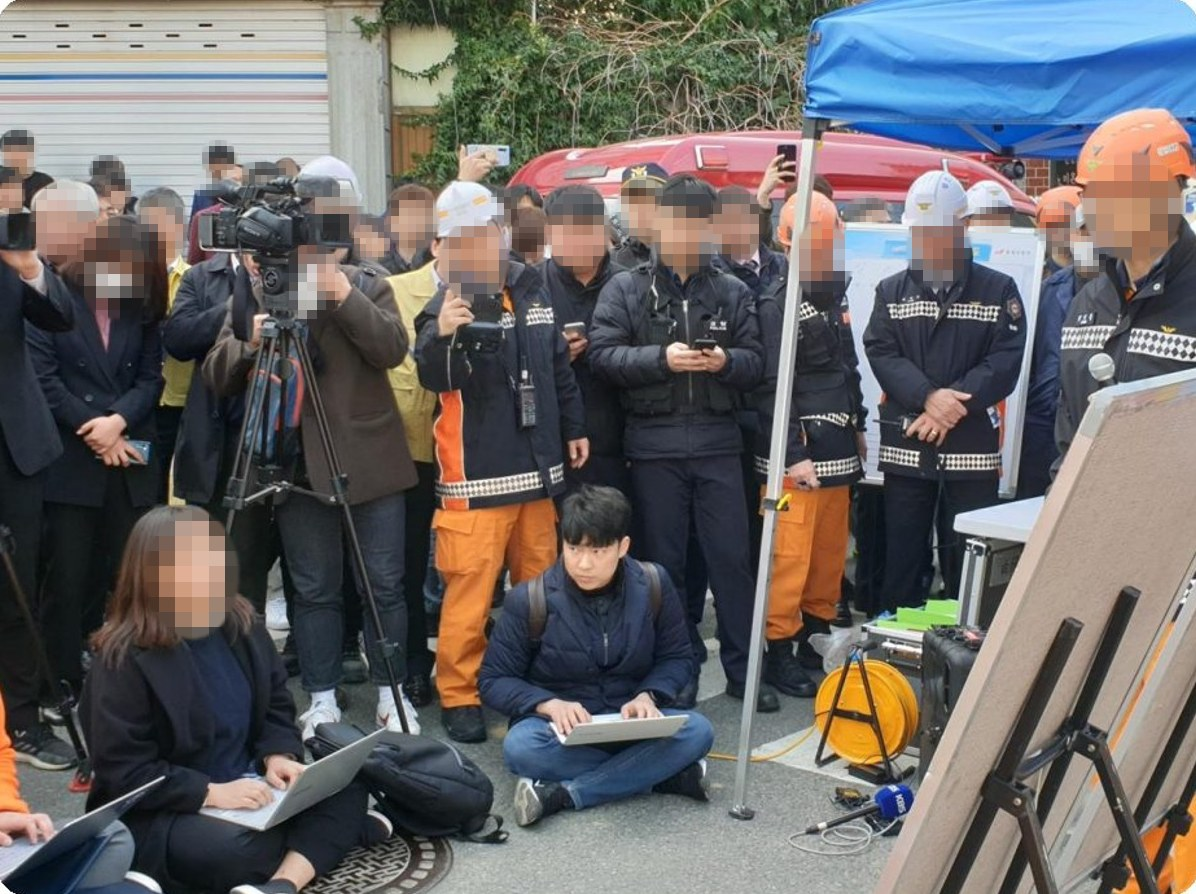
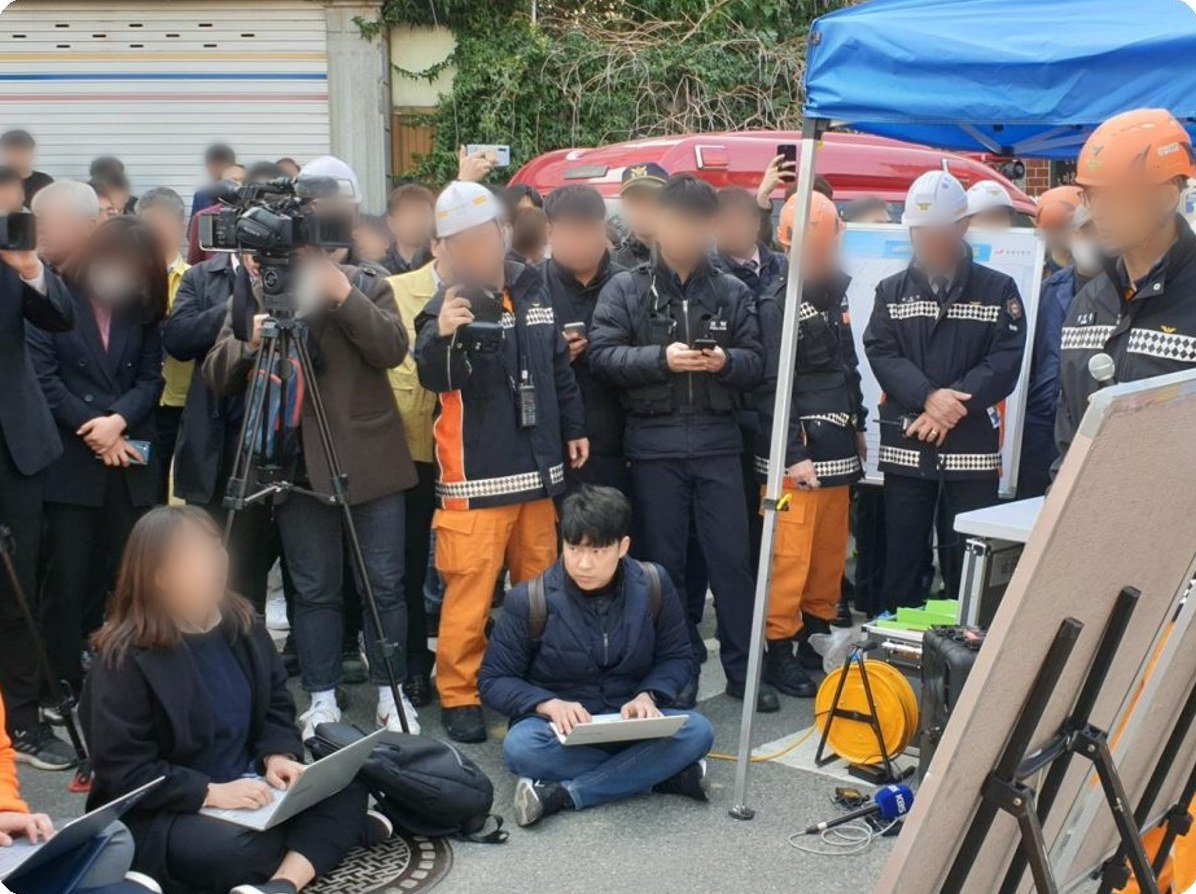
부산피디아 기획 페이지 추가, 보도 탭 사진 얼굴만 약한 블러

diff --git a/reports/busanpedia/index.html b/reports/busanpedia/index.html
@@ -1,0 +1,347 @@
+<!doctype html>
+<html lang="ko">
+<head>
+<meta charset="utf-8">
+<meta name="viewport" content="width=device-width, initial-scale=1, viewport-fit=cover">
+<title>부산피디아 | 이상배 부산일보 기자</title>
+<meta name="description" content="최동원, 부산어묵, BIFF처럼 부산의 인물과 음식, 역사를 회차별로 풀어내고 관련 인물을 인터뷰한 기획입니다. 부산일보 이상배 기자의 기획 보도 26건.">
+<link rel="canonical" href="https://baesang2.github.io/reports/busanpedia/">
+<link rel="icon" type="image/png" sizes="32x32" href="/favicon-32.png">
+<link rel="apple-touch-icon" href="/apple-touch-icon.png">
+<meta name="author" content="이상배">
+<meta name="color-scheme" content="light only">
+<meta name="theme-color" content="#ffffff">
+<meta property="og:type" content="website">
+<meta property="og:locale" content="ko_KR">
+<meta property="og:site_name" content="이상배">
+<meta property="og:title" content="부산피디아 | 이상배 부산일보 기자">
+<meta property="og:description" content="최동원, 부산어묵, BIFF처럼 부산의 인물과 음식, 역사를 회차별로 풀어내고 관련 인물을 인터뷰한 기획입니다.">
+<meta property="og:url" content="https://baesang2.github.io/reports/busanpedia/">
+<meta property="og:image" content="https://baesang2.github.io/images/og-reports.jpg">
+<meta name="twitter:card" content="summary_large_image">
+<script type="application/ld+json">
+{
+  "@context": "https://schema.org",
+  "@type": "CreativeWorkSeries",
+  "@id": "https://baesang2.github.io/reports/busanpedia/",
+  "url": "https://baesang2.github.io/reports/busanpedia/",
+  "name": "부산피디아",
+  "description": "최동원, 부산어묵, BIFF처럼 부산의 인물과 음식, 역사를 회차별로 풀어내고 관련 인물을 인터뷰한 기획입니다.",
+  "inLanguage": "ko",
+  "author": {
+    "@id": "https://baesang2.github.io/#person"
+  },
+  "publisher": {
+    "@type": "NewsMediaOrganization",
+    "name": "부산일보"
+  },
+  "startDate": "2023-04-05",
+  "endDate": "2023-11-17",
+  "hasPart": [
+    {
+      "@type": "NewsArticle",
+      "headline": "무쇠팔 최동원이 던진 건 공이 아니라 진심이었다",
+      "datePublished": "2023-04-05",
+      "url": "https://n.news.naver.com/article/082/0001206062",
+      "author": {
+        "@id": "https://baesang2.github.io/#person"
+      }
+    },
+    {
+      "@type": "NewsArticle",
+      "headline": "\"부산엑스포, 함 해 보입시더\" 최동원이 여는 '부산피디아'",
+      "datePublished": "2023-04-05",
+      "url": "https://n.news.naver.com/article/082/0001206061",
+      "author": {
+        "@id": "https://baesang2.github.io/#person"
+      }
+    },
+    {
+      "@type": "NewsArticle",
+      "headline": "부산어묵, 피란민 허기 달래며 변신… 부산과 함께한 국민 먹거리",
+      "datePublished": "2023-04-19",
+      "url": "https://n.news.naver.com/article/082/0001208312",
+      "author": {
+        "@id": "https://baesang2.github.io/#person"
+      }
+    },
+    {
+      "@type": "NewsArticle",
+      "headline": "\"어묵의 가능성은 무궁무진\" 삼진어묵 박용준 대표",
+      "datePublished": "2023-04-28",
+      "url": "https://n.news.naver.com/article/082/0001209834",
+      "author": {
+        "@id": "https://baesang2.github.io/#person"
+      }
+    },
+    {
+      "@type": "NewsArticle",
+      "headline": "[영상] 젊은 영화인 열정·김동호의 뚝심…아시아 최고 영화제 꽃피우다",
+      "datePublished": "2023-05-08",
+      "url": "https://n.news.naver.com/article/082/0001211262",
+      "author": {
+        "@id": "https://baesang2.github.io/#person"
+      }
+    },
+    {
+      "@type": "NewsArticle",
+      "headline": "부산에 영화제? 미쳤다고 했죠 BIFF 전 이사장 김동호",
+      "datePublished": "2023-05-12",
+      "url": "https://n.news.naver.com/article/082/0001211992",
+      "author": {
+        "@id": "https://baesang2.github.io/#person"
+      }
+    },
+    {
+      "@type": "NewsArticle",
+      "headline": "[영상] 수단의 슈바이처, 이태석 신부가 톤즈로 간 이유",
+      "datePublished": "2023-05-17",
+      "url": "https://n.news.naver.com/article/082/0001212832",
+      "author": {
+        "@id": "https://baesang2.github.io/#person"
+      }
+    },
+    {
+      "@type": "NewsArticle",
+      "headline": "'추적 60분' PD가 '울지마 톤즈'를 찍은 이유… 이태석재단 구수환 이사장",
+      "datePublished": "2023-05-26",
+      "url": "https://n.news.naver.com/article/082/0001214314",
+      "author": {
+        "@id": "https://baesang2.github.io/#person"
+      }
+    },
+    {
+      "@type": "NewsArticle",
+      "headline": "바다 위 흉물에서 랜드마크로, 부산 부의 지도 바꾼 '뷰'",
+      "datePublished": "2023-05-31",
+      "url": "https://n.news.naver.com/article/082/0001214950",
+      "author": {
+        "@id": "https://baesang2.github.io/#person"
+      }
+    },
+    {
+      "@type": "NewsArticle",
+      "headline": "Q. 광안대교는 언제 무너져요?… 조창국 전 광안대로 건설사업소장",
+      "datePublished": "2023-06-07",
+      "url": "https://n.news.naver.com/article/082/0001216042",
+      "author": {
+        "@id": "https://baesang2.github.io/#person"
+      }
+    },
+    {
+      "@type": "NewsArticle",
+      "headline": "[영상] 부산 밀면 감칠맛 비법은 피란민의 억척스러운 삶",
+      "datePublished": "2023-06-14",
+      "url": "https://n.news.naver.com/article/082/0001217222",
+      "author": {
+        "@id": "https://baesang2.github.io/#person"
+      }
+    },
+    {
+      "@type": "NewsArticle",
+      "headline": "100년 전통 밀면집은 식초를 넣을까? 내호냉면 4대 사장 유재우",
+      "datePublished": "2023-06-23",
+      "url": "https://n.news.naver.com/article/082/0001218693",
+      "author": {
+        "@id": "https://baesang2.github.io/#person"
+      }
+    },
+    {
+      "@type": "NewsArticle",
+      "headline": "임진년 시월 이순신이 부산을 공격했다, 역사가 바뀌었다",
+      "datePublished": "2023-06-28",
+      "url": "https://n.news.naver.com/article/082/0001219527",
+      "author": {
+        "@id": "https://baesang2.github.io/#person"
+      }
+    },
+    {
+      "@type": "NewsArticle",
+      "headline": "가난한 환자가 도망가도록 병원 뒷문 열어준 '바보 의사' 장기려",
+      "datePublished": "2023-07-13",
+      "url": "https://n.news.naver.com/article/082/0001222005",
+      "author": {
+        "@id": "https://baesang2.github.io/#person"
+      }
+    },
+    {
+      "@type": "NewsArticle",
+      "headline": "\"남 먼저 생각하는 '장기려 정신' 퍼지길\" 장기려 손자 장여구 교수",
+      "datePublished": "2023-07-21",
+      "url": "https://n.news.naver.com/article/082/0001223317",
+      "author": {
+        "@id": "https://baesang2.github.io/#person"
+      }
+    },
+    {
+      "@type": "NewsArticle",
+      "headline": "문학소녀가 독립 운동을 하게 된 이유는?",
+      "datePublished": "2023-07-31",
+      "url": "https://n.news.naver.com/article/082/0001224847",
+      "author": {
+        "@id": "https://baesang2.github.io/#person"
+      }
+    },
+    {
+      "@type": "NewsArticle",
+      "headline": "박차정 의사는 절대 사회주의가 아닙니다 강대민 교수",
+      "datePublished": "2023-08-05",
+      "url": "https://n.news.naver.com/article/082/0001225647",
+      "author": {
+        "@id": "https://baesang2.github.io/#person"
+      }
+    },
+    {
+      "@type": "NewsArticle",
+      "headline": "[영상] 일제 군수공장 방화하려다 착혈 고문 시달린 애국지사 이광우",
+      "datePublished": "2023-08-10",
+      "url": "https://n.news.naver.com/article/082/0001226550",
+      "author": {
+        "@id": "https://baesang2.github.io/#person"
+      }
+    },
+    {
+      "@type": "NewsArticle",
+      "headline": "독립운동가 아버지를 고문한 친일 경찰을 쫓다… 동구문화원 이상국 위원",
+      "datePublished": "2023-08-16",
+      "url": "https://n.news.naver.com/article/082/0001227419",
+      "author": {
+        "@id": "https://baesang2.github.io/#person"
+      }
+    },
+    {
+      "@type": "NewsArticle",
+      "headline": "2030부산엑스포 무대가 될 부산항 북항의 모든 것",
+      "datePublished": "2023-09-07",
+      "url": "https://n.news.naver.com/article/082/0001231213",
+      "author": {
+        "@id": "https://baesang2.github.io/#person"
+      }
+    },
+    {
+      "@type": "NewsArticle",
+      "headline": "'부산항 전도사' 이용득 부산세관박물관장",
+      "datePublished": "2023-09-15",
+      "url": "https://n.news.naver.com/article/082/0001232514",
+      "author": {
+        "@id": "https://baesang2.github.io/#person"
+      }
+    },
+    {
+      "@type": "NewsArticle",
+      "headline": "\"쾅하는 소리와 함께 사람들이 쓸려 나갔죠\"",
+      "datePublished": "2023-09-20",
+      "url": "https://n.news.naver.com/article/082/0001233400",
+      "author": {
+        "@id": "https://baesang2.github.io/#person"
+      }
+    },
+    {
+      "@type": "NewsArticle",
+      "headline": "경마장·미군기지… 질곡의 100년 넘은 부산시민공원의 모든 것",
+      "datePublished": "2023-10-18",
+      "url": "https://n.news.naver.com/article/082/0001237404",
+      "author": {
+        "@id": "https://baesang2.github.io/#person"
+      }
+    },
+    {
+      "@type": "NewsArticle",
+      "headline": "허운영 전 하야리아 시민공원 범시민운동본부 운영위원장",
+      "datePublished": "2023-10-27",
+      "url": "https://n.news.naver.com/article/082/0001238885",
+      "author": {
+        "@id": "https://baesang2.github.io/#person"
+      }
+    },
+    {
+      "@type": "NewsArticle",
+      "headline": "'스포츠 변방국' 편견을 메치다…대한민국 최초 올림픽 금 양정모",
+      "datePublished": "2023-11-14",
+      "url": "https://n.news.naver.com/article/082/0001241648",
+      "author": {
+        "@id": "https://baesang2.github.io/#person"
+      }
+    },
+    {
+      "@type": "NewsArticle",
+      "headline": "애국가 들리던 순간 울컥했죠 대한민국 최초의 올림픽 금메달 양정모",
+      "datePublished": "2023-11-17",
+      "url": "https://n.news.naver.com/article/082/0001242254",
+      "author": {
+        "@id": "https://baesang2.github.io/#person"
+      }
+    }
+  ]
+}
+</script>
+<link rel="preconnect" href="https://cdn.jsdelivr.net">
+<link rel="stylesheet" href="https://cdn.jsdelivr.net/gh/orioncactus/pretendard@v1.3.9/dist/web/variable/pretendardvariable-dynamic-subset.min.css">
+<link rel="stylesheet" href="/assets/site.css">
+</head>
+<body>
+
+<header class="topbar">
+  <div class="container">
+    <a class="brand" href="/">이상배</a>
+    <nav aria-label="주요 메뉴">
+      <ul class="tabs">
+        <li><a href="/">홈</a></li>
+        <li><a href="/reports/" aria-current="page">보도</a></li>
+        <li><a href="/lectures/">강연</a></li>
+      </ul>
+    </nav>
+  </div>
+</header>
+
+<div class="page-head container">
+  <a class="back" href="/reports/">보도 목록</a>
+  <h1>부산피디아</h1>
+  <p class="plan-meta">2023.04 – 2023.11 · 기사 26건</p>
+  <p>최동원, 부산어묵, BIFF처럼 부산의 인물과 음식, 역사를 회차별로 풀어내고 관련 인물을 인터뷰한 기획입니다.</p>
+  <img class="plan-photo" src="/images/reports/busanpedia-2023.jpg" alt="부산피디아" width="600" height="400">
+</div>
+
+<main class="container">
+
+  <section class="sec" id="articles">
+    <h2>기사</h2>
+    <div class="sec-body">
+      <ul class="rows wide">
+          <li><span class="y">2023.04.05</span><span class="t"><a href="https://n.news.naver.com/article/082/0001206062">무쇠팔 최동원이 던진 건 공이 아니라 진심이었다</a><span class="m">EP.1 최동원</span></span></li>
+          <li><span class="y">2023.04.05</span><span class="t"><a href="https://n.news.naver.com/article/082/0001206061">"부산엑스포, 함 해 보입시더" 최동원이 여는 '부산피디아'</a><span class="m">연재 시작 기사</span></span></li>
+          <li><span class="y">2023.04.19</span><span class="t"><a href="https://n.news.naver.com/article/082/0001208312">부산어묵, 피란민 허기 달래며 변신… 부산과 함께한 국민 먹거리</a><span class="m">EP.2 부산어묵</span></span></li>
+          <li><span class="y">2023.04.28</span><span class="t"><a href="https://n.news.naver.com/article/082/0001209834">"어묵의 가능성은 무궁무진" 삼진어묵 박용준 대표</a><span class="m">WHO(後)</span></span></li>
+          <li><span class="y">2023.05.08</span><span class="t"><a href="https://n.news.naver.com/article/082/0001211262">[영상] 젊은 영화인 열정·김동호의 뚝심…아시아 최고 영화제 꽃피우다</a><span class="m">EP.3 BIFF</span></span></li>
+          <li><span class="y">2023.05.12</span><span class="t"><a href="https://n.news.naver.com/article/082/0001211992">부산에 영화제? 미쳤다고 했죠 BIFF 전 이사장 김동호</a><span class="m">WHO(後)</span></span></li>
+          <li><span class="y">2023.05.17</span><span class="t"><a href="https://n.news.naver.com/article/082/0001212832">[영상] 수단의 슈바이처, 이태석 신부가 톤즈로 간 이유</a><span class="m">EP.4 이태석</span></span></li>
+          <li><span class="y">2023.05.26</span><span class="t"><a href="https://n.news.naver.com/article/082/0001214314">'추적 60분' PD가 '울지마 톤즈'를 찍은 이유… 이태석재단 구수환 이사장</a><span class="m">WHO(後)</span></span></li>
+          <li><span class="y">2023.05.31</span><span class="t"><a href="https://n.news.naver.com/article/082/0001214950">바다 위 흉물에서 랜드마크로, 부산 부의 지도 바꾼 '뷰'</a><span class="m">EP.5 광안대교</span></span></li>
+          <li><span class="y">2023.06.07</span><span class="t"><a href="https://n.news.naver.com/article/082/0001216042">Q. 광안대교는 언제 무너져요?… 조창국 전 광안대로 건설사업소장</a><span class="m">WHO(後)</span></span></li>
+          <li><span class="y">2023.06.14</span><span class="t"><a href="https://n.news.naver.com/article/082/0001217222">[영상] 부산 밀면 감칠맛 비법은 피란민의 억척스러운 삶</a><span class="m">EP.6 부산밀면</span></span></li>
+          <li><span class="y">2023.06.23</span><span class="t"><a href="https://n.news.naver.com/article/082/0001218693">100년 전통 밀면집은 식초를 넣을까? 내호냉면 4대 사장 유재우</a><span class="m">WHO(後)</span></span></li>
+          <li><span class="y">2023.06.28</span><span class="t"><a href="https://n.news.naver.com/article/082/0001219527">임진년 시월 이순신이 부산을 공격했다, 역사가 바뀌었다</a><span class="m">EP.7 부산대첩</span></span></li>
+          <li><span class="y">2023.07.13</span><span class="t"><a href="https://n.news.naver.com/article/082/0001222005">가난한 환자가 도망가도록 병원 뒷문 열어준 '바보 의사' 장기려</a><span class="m">EP.8 장기려</span></span></li>
+          <li><span class="y">2023.07.21</span><span class="t"><a href="https://n.news.naver.com/article/082/0001223317">"남 먼저 생각하는 '장기려 정신' 퍼지길" 장기려 손자 장여구 교수</a><span class="m">WHO(後)</span></span></li>
+          <li><span class="y">2023.07.31</span><span class="t"><a href="https://n.news.naver.com/article/082/0001224847">문학소녀가 독립 운동을 하게 된 이유는?</a><span class="m">EP.9 박차정</span></span></li>
+          <li><span class="y">2023.08.05</span><span class="t"><a href="https://n.news.naver.com/article/082/0001225647">박차정 의사는 절대 사회주의가 아닙니다 강대민 교수</a><span class="m">WHO(後)</span></span></li>
+          <li><span class="y">2023.08.10</span><span class="t"><a href="https://n.news.naver.com/article/082/0001226550">[영상] 일제 군수공장 방화하려다 착혈 고문 시달린 애국지사 이광우</a><span class="m">EP.10 이광우</span></span></li>
+          <li><span class="y">2023.08.16</span><span class="t"><a href="https://n.news.naver.com/article/082/0001227419">독립운동가 아버지를 고문한 친일 경찰을 쫓다… 동구문화원 이상국 위원</a><span class="m">WHO(後)</span></span></li>
+          <li><span class="y">2023.09.07</span><span class="t"><a href="https://n.news.naver.com/article/082/0001231213">2030부산엑스포 무대가 될 부산항 북항의 모든 것</a><span class="m">EP.11 북항</span></span></li>
+          <li><span class="y">2023.09.15</span><span class="t"><a href="https://n.news.naver.com/article/082/0001232514">'부산항 전도사' 이용득 부산세관박물관장</a><span class="m">WHO(後)</span></span></li>
+          <li><span class="y">2023.09.20</span><span class="t"><a href="https://n.news.naver.com/article/082/0001233400">"쾅하는 소리와 함께 사람들이 쓸려 나갔죠"</a><span class="m">EP.12 돗대산 추락사고</span></span></li>
+          <li><span class="y">2023.10.18</span><span class="t"><a href="https://n.news.naver.com/article/082/0001237404">경마장·미군기지… 질곡의 100년 넘은 부산시민공원의 모든 것</a><span class="m">EP.13 부산시민공원</span></span></li>
+          <li><span class="y">2023.10.27</span><span class="t"><a href="https://n.news.naver.com/article/082/0001238885">허운영 전 하야리아 시민공원 범시민운동본부 운영위원장</a><span class="m">WHO(後)</span></span></li>
+          <li><span class="y">2023.11.14</span><span class="t"><a href="https://n.news.naver.com/article/082/0001241648">'스포츠 변방국' 편견을 메치다…대한민국 최초 올림픽 금 양정모</a><span class="m">EP.14 양정모</span></span></li>
+          <li><span class="y">2023.11.17</span><span class="t"><a href="https://n.news.naver.com/article/082/0001242254">애국가 들리던 순간 울컥했죠 대한민국 최초의 올림픽 금메달 양정모</a><span class="m">WHO(後)</span></span></li>
+      </ul>
+    </div>
+  </section>
+</main>
+
+<footer class="container">
+  <p>최종 업데이트 2026년 11월 2일 · © 2026 이상배</p>
+</footer>
+
+</body>
+</html>

diff --git a/reports/index.html b/reports/index.html
@@ -102,7 +102,8 @@
           "publisher": {
             "@type": "NewsMediaOrganization",
             "name": "부산일보"
-          }
+          },
+          "url": "https://baesang2.github.io/reports/busanpedia/"
         }
       },
       {
@@ -680,10 +681,10 @@
           <img src="/images/reports/bukhang-2024.jpg" alt="북항을 글로벌 핫플로" width="600" height="400" loading="lazy">
           <div><span class="no">2024</span><b>북항을 글로벌 핫플로</b></div>
         </a></li>
-        <li class="row">
+        <li><a href="/reports/busanpedia/">
           <img src="/images/reports/busanpedia-2023.jpg" alt="부산피디아" width="600" height="400" loading="lazy">
           <div><span class="no">2023</span><b>부산피디아</b></div>
-        </li>
+        </a></li>
         <li><a href="/reports/funeral/">
           <img src="/images/reports/funeral-2021.jpg" alt="존엄한 죽음, 공영장례" width="600" height="400" loading="lazy">
           <div><span class="no">2021</span><b>존엄한 죽음, 공영장례</b></div>
